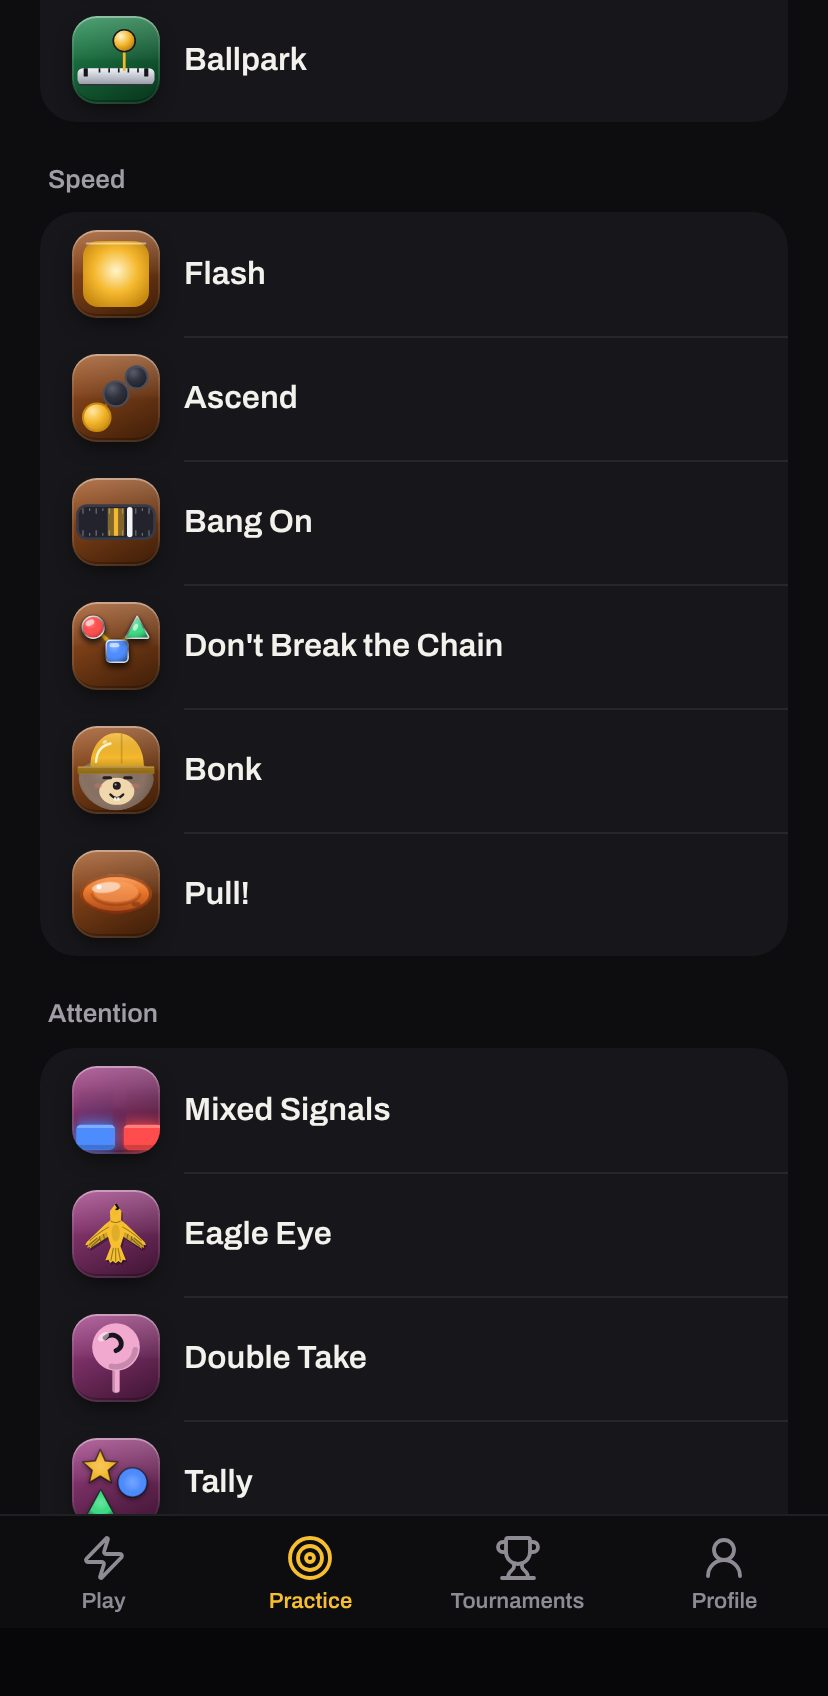
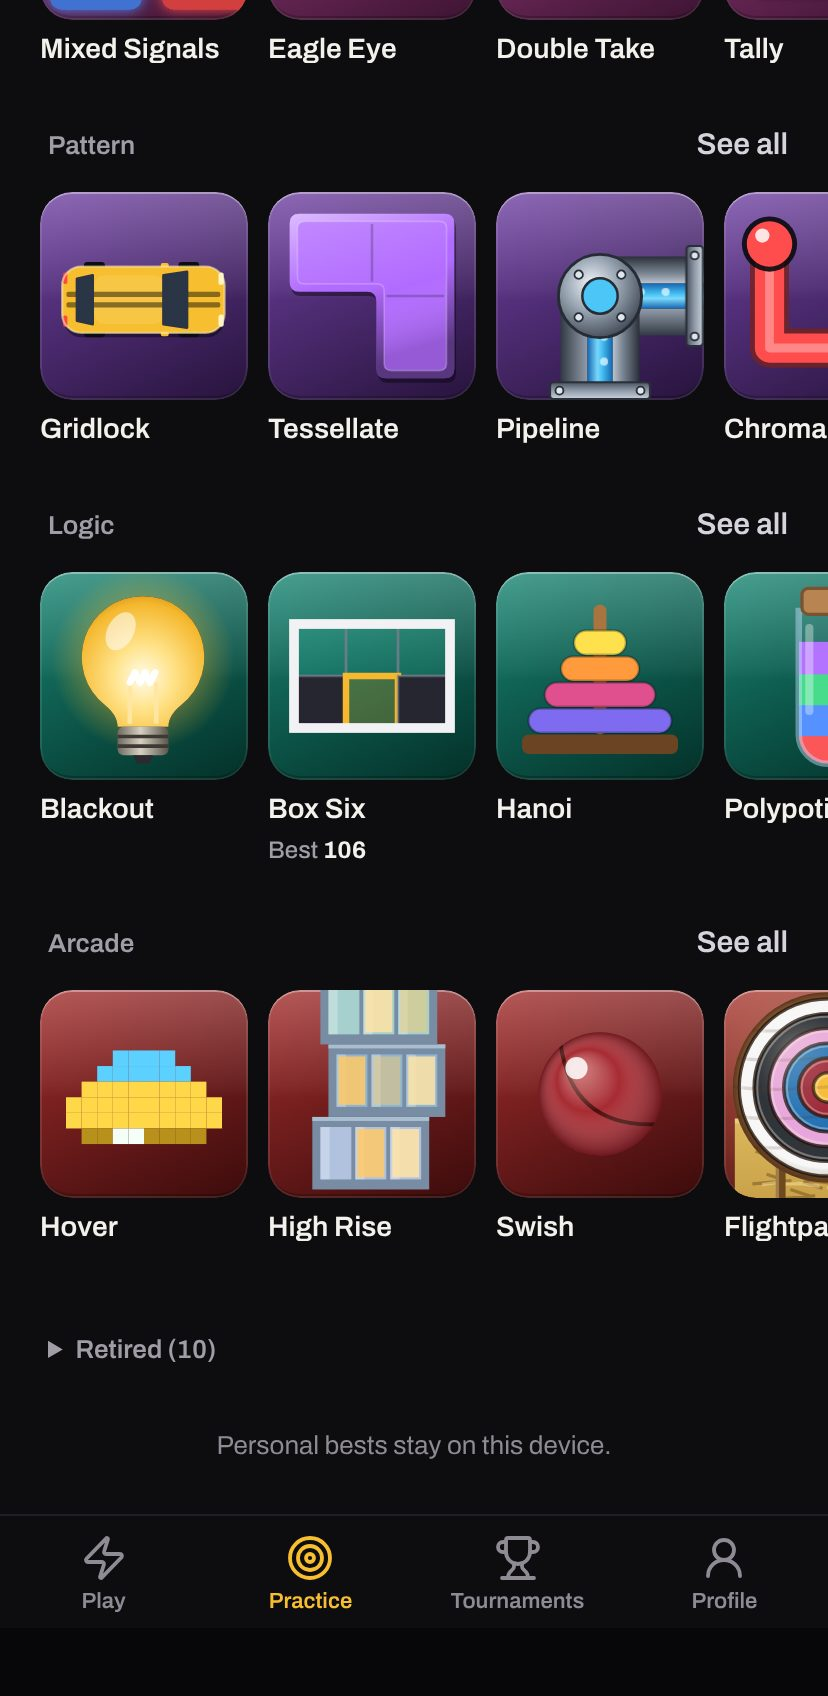
Practice as shelves of square tiles (All), a grid of three (category or search)
Claude-Session: https://claude.ai/code/session_01JW9cWBT48P5fMgd3JZmxHP

diff --git a/src/routes/practice.tsx b/src/routes/practice.tsx
@@ -133,7 +133,7 @@ function CardBest({ type }: { type: PuzzleType }) {
       id={cardBestId(type)}
       aria-hidden="true"
       data-card-best={best}
-      className="shrink-0 whitespace-nowrap text-[14px] font-medium tabular-nums text-muted-foreground"
+      className="ap-tile-best"
     >
       Best <b className="ap-score">{best}</b>
     </span>
@@ -166,20 +166,28 @@ function matchesFilter(type: PuzzleType, filter: PracticeFilter, query: string):
   return q === "" || definition.name.toLowerCase().includes(q) || definition.category.includes(q);
 }
 
-const GAME_ROW = "ap-row press";
-
 /**
- * A practice row's icon and name. The row's button is named exactly the game (aria-label; checks
- * find it by name), the icon is aria-hidden and the best is the button's description (CardBest).
+ * A practice tile's picture and name (follow-up to #129: the list is shelves and a grid of square
+ * tiles): the game's own icon filling a 104 px square, the name on one line. The tile's button is named
+ * exactly the game (aria-label; checks find it by name), the icon is aria-hidden and the best is the
+ * button's description (CardBest).
  */
-function GameRowLabel({ type }: { type: PuzzleType }) {
+function GameTileLabel({ type, size }: { type: PuzzleType; size: number }) {
   return (
     <>
-      <GameIcon type={type} size={44} />
-      <span className="ap-row-title min-w-0 flex-1">{PUZZLE_REGISTRY[type].name}</span>
+      <span className="ap-tile-art">
+        <GameIcon type={type} size={size} />
+      </span>
+      <span data-ellipsis className="ap-tile-name">
+        {PUZZLE_REGISTRY[type].name}
+      </span>
     </>
   );
 }
+
+/** A shelf tile's square, in CSS px; a grid tile's icon is drawn at GRID_TILE_PX and fits its column (never upscaled). */
+const TILE_PX = 104;
+const GRID_TILE_PX = 128;
 
 /** The signature verdict for a graded practice run. */
 function practiceVerdict(graded: Graded) {
@@ -479,14 +487,19 @@ function PracticeScreen() {
 
   if (stage === "list") {
     const visible = (key: PuzzleType) => matchesFilter(key, filter, query);
+    // All with no search: one shelf per category; a category or a search: one grid of what matches.
+    const shelves = filter === "all" && query.trim() === "";
     const groups = puzzleCategories()
       .map((category) => ({ category, rows: typesInCategory(category).filter(visible) }))
       .filter((group) => group.rows.length > 0);
+    const matches = groups.flatMap((group) => group.rows);
     const previewRows = PREVIEW_PUZZLE_TYPES.filter(visible);
     const retiredRows = RETIRED_PUZZLE_TYPES.filter(
       (key) => !PREVIEW_PUZZLE_TYPES.includes(key),
     ).filter(visible);
-    const row = (key: PuzzleType, retired = false) => (
+    // One button per game: a tap opens its round; a swipe along a shelf scrolls it (the browser
+    // cancels the click once a touch moves into a scroll), so a swipe never starts a game.
+    const tile = (key: PuzzleType, size = GRID_TILE_PX, retired = false) => (
       <button
         key={key}
         type="button"
@@ -494,10 +507,9 @@ function PracticeScreen() {
         aria-label={PUZZLE_REGISTRY[key].name}
         aria-describedby={cardBestId(key)}
         data-practice-game={key}
-        data-icon="44"
-        className={`${GAME_ROW}${retired ? " opacity-80" : ""}`}
+        className={`ap-tile press${retired ? " opacity-80" : ""}`}
       >
-        <GameRowLabel type={key} />
+        <GameTileLabel type={key} size={size} />
         <CardBest type={key} />
       </button>
     );
@@ -566,20 +578,41 @@ function PracticeScreen() {
             </div>
           </div>
 
-          {groups.map(({ category, rows }) => (
-            <section key={category} aria-label={categoryLabel(category)} data-practice-group={category} className="flex flex-col gap-2">
-              <h2 className="ap-group-title">{categoryLabel(category)}</h2>
-              <div className="ap-panel">{rows.map((key) => row(key))}</div>
-            </section>
-          ))}
-          {groups.length === 0 && previewRows.length === 0 && retiredRows.length === 0 ? (
-            <p className="ap-panel ap-empty">No games match.</p>
+          {shelves ? (
+            groups.map(({ category, rows }) => (
+              <section key={category} aria-label={categoryLabel(category)} data-practice-group={category} className="flex flex-col gap-2.5">
+                <div className="ap-section-head">
+                  <h2 className="ap-group-title">{categoryLabel(category)}</h2>
+                  <button
+                    type="button"
+                    data-practice-see-all={category}
+                    onClick={() => {
+                      setFilter(category);
+                      window.scrollTo({ top: 0 });
+                    }}
+                    className="ap-link press -my-2.5 -mr-1 h-11 px-1"
+                  >
+                    See all
+                  </button>
+                </div>
+                <div data-scroll-x data-practice-shelf={category} className="ap-shelf">
+                  {rows.map((key) => tile(key, TILE_PX))}
+                </div>
+              </section>
+            ))
+          ) : matches.length > 0 ? (
+            <div data-practice-grid className="ap-tile-grid">
+              {matches.map((key) => tile(key))}
+            </div>
+          ) : null}
+          {matches.length === 0 && previewRows.length === 0 && retiredRows.length === 0 ? (
+            <p className="ap-panel ap-empty">No games match</p>
           ) : null}
 
           {previewRows.length > 0 && (
-            <section aria-label="Practice only" className="flex flex-col gap-2">
+            <section aria-label="Practice only" className="flex flex-col gap-2.5">
               <h2 className="ap-group-title">New · practice only</h2>
-              <div className="ap-panel">{previewRows.map((key) => row(key))}</div>
+              <div className="ap-tile-grid">{previewRows.map((key) => tile(key))}</div>
             </section>
           )}
 
@@ -588,7 +621,7 @@ function PracticeScreen() {
               <summary className="ap-group-title th-hit press cursor-pointer">
                 Retired ({retiredRows.length})
               </summary>
-              <div className="ap-panel mt-2">{retiredRows.map((key) => row(key, true))}</div>
+              <div className="ap-tile-grid mt-3">{retiredRows.map((key) => tile(key, GRID_TILE_PX, true))}</div>
             </details>
           )}
 

diff --git a/src/polish-layout/app-pages.css b/src/polish-layout/app-pages.css
@@ -690,3 +690,81 @@ a.ap-row:active {
   opacity: 1;
   color: var(--ap-faint);
 }
+
+/* ------------------------------------------------------------------ Practice: shelves and tiles */
+/* (Follow-up to #129.) All with no search: one shelf per category, a row of square tiles that starts at the
+   page margin and scrolls out to the screen's edges (native momentum, no bar, no snapping). A category or a
+   search: the same tiles in a grid of three. Each tile is one button named exactly its game. */
+.ap-shelf {
+  display: flex;
+  gap: 10px;
+  margin: 0 -20px;
+  padding: 2px 20px 4px;
+  overflow-x: auto;
+  overflow-y: hidden;
+  overscroll-behavior-x: contain;
+  scroll-padding-inline: 20px;
+  scrollbar-width: none;
+  -webkit-overflow-scrolling: touch;
+}
+.ap-shelf::-webkit-scrollbar {
+  display: none;
+}
+.ap-tile {
+  display: flex;
+  width: 104px;
+  min-width: 0;
+  flex: none;
+  flex-direction: column;
+  gap: 6px;
+  text-align: left;
+  color: var(--ap-text);
+  -webkit-tap-highlight-color: transparent;
+}
+.ap-tile-art {
+  display: block;
+  width: 104px;
+  height: 104px;
+  overflow: hidden;
+  border-radius: 16px;
+}
+.ap-tile-art > .game-icon {
+  display: flex;
+  border-radius: 16px;
+}
+.ap-tile-name {
+  overflow: hidden;
+  font-size: 14px;
+  font-weight: 600;
+  line-height: 18px;
+  text-overflow: ellipsis;
+  white-space: nowrap;
+}
+.ap-tile-best {
+  margin-top: -3px;
+  font-size: 12px;
+  font-weight: 500;
+  line-height: 16px;
+  color: var(--ap-text-2);
+  white-space: nowrap;
+}
+.ap-tile-best > .ap-score {
+  font-weight: 700;
+}
+.ap-tile-grid {
+  display: grid;
+  grid-template-columns: repeat(3, minmax(0, 1fr));
+  gap: 16px 10px;
+}
+.ap-tile-grid > .ap-tile {
+  width: auto;
+}
+.ap-tile-grid .ap-tile-art {
+  width: 100%;
+  height: auto;
+  aspect-ratio: 1;
+}
+.ap-tile-grid .ap-tile-art > .game-icon {
+  width: 100% !important;
+  height: 100% !important;
+}

diff --git a/scripts/shots/app-pages-shots.ts b/scripts/shots/app-pages-shots.ts
@@ -45,6 +45,9 @@ try {
     ["play-scrolled", "play", 2000],
     ["practice-top", "practice list", null],
     ["practice-scrolled", "practice list", 1400],
+    // Practice's shelves give way to a grid of three with a category or a search (follow-up to #129).
+    ["practice-category", "practice list", "click:[data-practice-filter='logic']"],
+    ["practice-search", "practice list", "fill:ra"],
     ["tournaments", "tournaments", null],
     ["profile", "profile", null],
     // #128 connected (Prompt R merge): the public game card, the Add to Home Screen hint, the feedback link.
@@ -56,6 +59,9 @@ try {
     const { context, page } = await openThemeScreen(browser, server.origin, screen(name), viewport);
     try {
       if (typeof act === "number") await page.evaluate((y) => window.scrollTo(0, y), act);
+      else if (typeof act === "string" && act.startsWith("click:")) await page.locator(act.slice(6)).click();
+      else if (typeof act === "string" && act.startsWith("fill:"))
+        await page.getByRole("searchbox", { name: "Search games" }).fill(act.slice(5));
       else if (typeof act === "string")
         await page.evaluate((sel) => {
           const el = document.querySelector(sel);

diff --git a/CLAUDE.md b/CLAUDE.md
@@ -429,6 +429,10 @@ Lovable still hosts and publishes the app (https://brain-blitz-duel.lovable.app)
   Continue pills, Join now, the selected Practice chip, the current tab, the logo and wordmark Z); links, secondary buttons,
   scores and the Beta pill are neutral, icon squares take the category palette (`data-tone`), a played daily shows a grey
   Done pill and "6 rounds · 742", and every `.press` control on the pages sinks to 98 % and lightens while pressed.
+  Practice is shelves: with All and no search, one horizontally scrolling row of 104 px square tiles per category
+  (`.ap-shelf`, `data-practice-shelf`, "See all" selects the chip); with a category or a search, a grid of three
+  (`data-practice-grid`); Retired stays collapsed. Each tile is one button named exactly its game, its best its
+  description.
 - `src/components/duel/` — room/round screens (PhoneShell, RoundIntro, TimerBar,
   AnswerReveal, ArcadeReveal, WinnerReveal…); `src/components/puzzles/` — shared puzzle
   widgets; `src/lib/fx/` — sound and visual feedback (presentation only).
